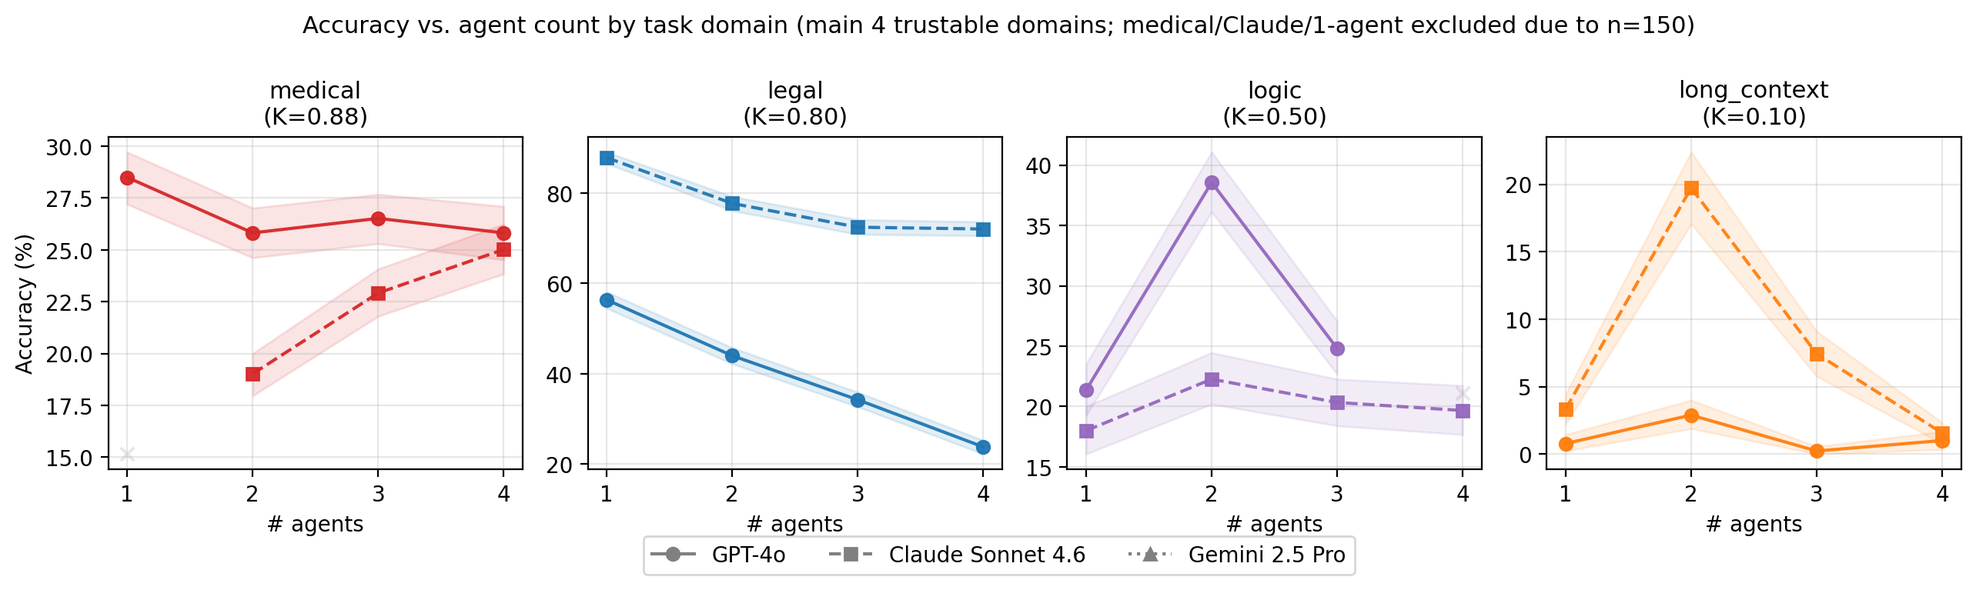
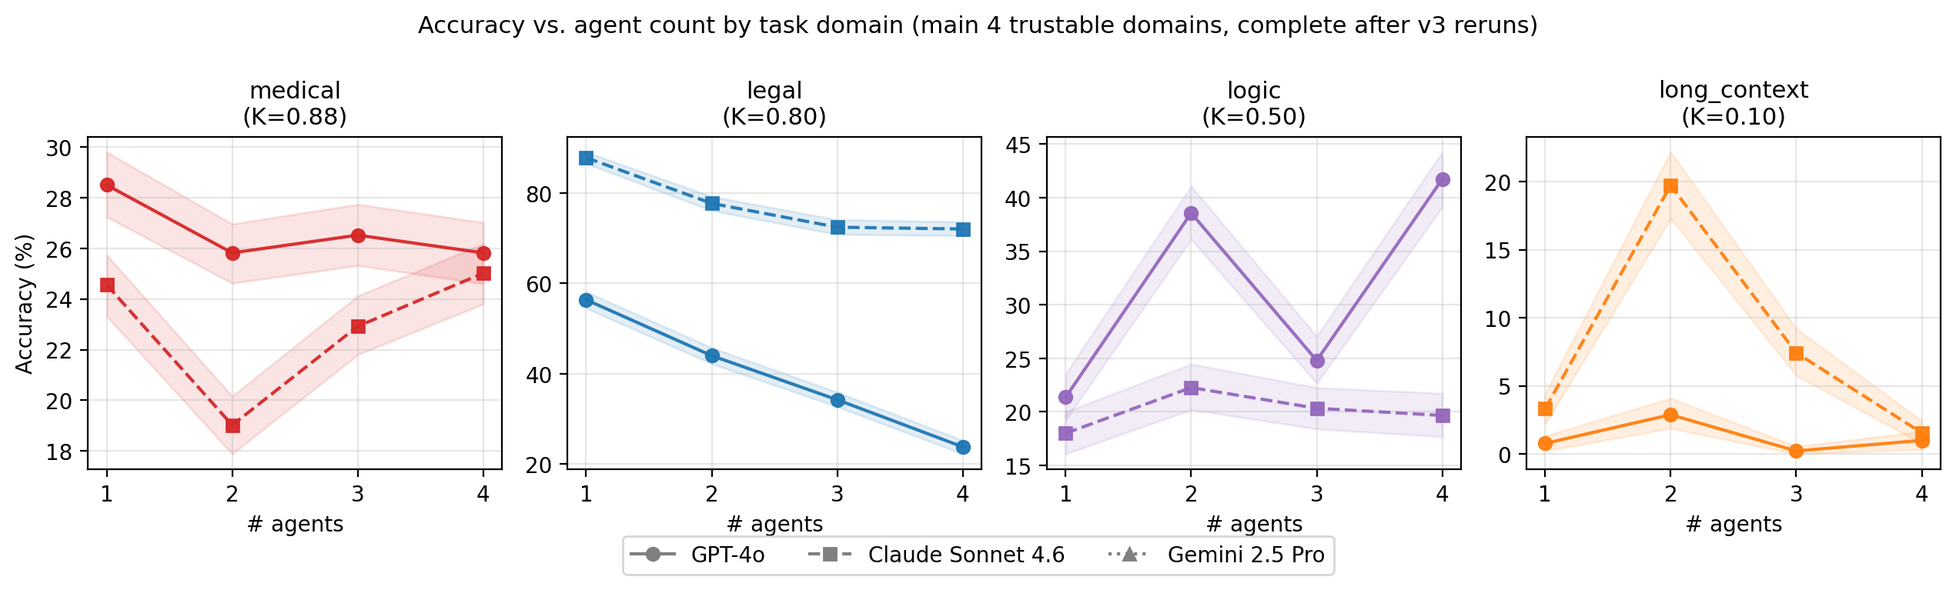
Integrate v3 priority-1 reruns: medical/Claude/1-agent + logic/GPT-4o/4-agent; remove all 'contaminated/excluded' caveats

diff --git a/paper/agent_count_neurips_2026.tex b/paper/agent_count_neurips_2026.tex
@@ -36,7 +36,7 @@
 \maketitle
 
 \begin{abstract}
-Conventional practice for hard LLM tasks is to scale up the number of agents and aggregate their answers~\citep{li2024moreagents}. We show this is the wrong default on knowledge-bound tasks: scaling from one to four GPT-4o agents drops accuracy by $32$pp on legal classification, with similar regressions on medical QA, while open-context tasks peak at two agents. We explain when ensembling helps with an exact identity $\Delta = (1{-}\alpha)\,r - \alpha\,(1{-}p)$ ($\alpha$ the one-agent baseline, $p$ preservation rate, $r$ recovery rate), reducing ``does multi-agent help?'' to a verifiable boundary $r > \alpha(1{-}p)/(1{-}\alpha)$ estimable from a $50$--$100$-item paired pilot at $N{\in}\{1,2\}$. The boundary holds with residual $|{<}10^{-15}|$ across all $32$ trustable (domain, model, $N{\geq}2$) cells in our data. A single LLM-judged feature, \emph{knowledge concentration} $K$, scoreable from task text in ${\approx}15$ min, serves as an ex-ante predictor of $\alpha$ (cell-level $r(K, \alpha){=}{+}0.77$ on the 7 main cells with measured $\alpha$); the rule ``use one agent if $K \geq 0.6$, else two'' matches $7/8$ main-benchmark cells under leave-one-domain-out CV, tying an oracle $\alpha$-rule that requires a single-agent eval. An out-of-distribution extension to math (gsm8k) and multi-step reasoning (ARC-Challenge) yields a $+9.1$pp gain on reasoning/GPT-4o at $N{=}2$ (the largest positive $\Delta$ in tier-2; the largest positive $\Delta$ overall is $+17.2$pp on logic/GPT-4o at $N{=}2$ in the main benchmark) and exposes the limit of any single text-only feature: math has high $\alpha$ despite low $K$, so both rules score $9/12$ ($75\%$, Wilson CI $[0.47, 0.91]$) on the combined benchmark with disjoint failure modes. Practitioners should score $K$ first and run the paired pilot when feasible; on narrow-expert tasks, adding agents costs both accuracy and ${\sim}N{\times}$ tokens.
+Conventional practice for hard LLM tasks is to scale up the number of agents and aggregate their answers~\citep{li2024moreagents}. We show this is the wrong default on knowledge-bound tasks: scaling from one to four GPT-4o agents drops accuracy by $32$pp on legal classification, with similar regressions on medical QA, while open-context tasks peak at two agents. We explain when ensembling helps with an exact identity $\Delta = (1{-}\alpha)\,r - \alpha\,(1{-}p)$ ($\alpha$ the one-agent baseline, $p$ preservation rate, $r$ recovery rate), reducing ``does multi-agent help?'' to a verifiable boundary $r > \alpha(1{-}p)/(1{-}\alpha)$ estimable from a $50$--$100$-item paired pilot at $N{\in}\{1,2\}$. The boundary holds with residual $|{<}10^{-15}|$ across all $32$ trustable (domain, model, $N{\geq}2$) cells in our data. A single LLM-judged feature, \emph{knowledge concentration} $K$, scoreable from task text in ${\approx}15$ min, serves as an ex-ante predictor of $\alpha$ (cell-level $r(K, \alpha){=}{+}0.77$ on the 7 main cells with measured $\alpha$); the rule ``use one agent if $K \geq 0.6$, else two'' matches $7/8$ main-benchmark cells under leave-one-domain-out CV, tying an oracle $\alpha$-rule that requires a single-agent eval. An out-of-distribution extension to math (gsm8k) and multi-step reasoning (ARC-Challenge) yields a $+9.1$pp gain on reasoning/GPT-4o at $N{=}2$ (the largest positive $\Delta$ in tier-2; the largest positive $\Delta$ overall is $+20.3$pp on logic/GPT-4o at $N{=}4$ in the main benchmark) and exposes the limit of any single text-only feature: math has high $\alpha$ despite low $K$, so both rules score $9/12$ ($75\%$, Wilson CI $[0.47, 0.91]$) on the combined benchmark with disjoint failure modes. Practitioners should score $K$ first and run the paired pilot when feasible; on narrow-expert tasks, adding agents costs both accuracy and ${\sim}N{\times}$ tokens.
 \end{abstract}
 
 
@@ -52,13 +52,13 @@ We answer two questions: (a)~\emph{why} does the same protocol produce opposite-
 \begin{figure}[t]
 \centering
 \includegraphics[width=\linewidth]{figures/fig0_teaser_drawio.pdf}
-\caption{\textbf{Overview of our argument.} (\textbf{Top}) The conventional ``more agents is all you need'' recipe~\citep{li2024moreagents} predicts monotone gains with $N$; on knowledge-bound NLP we find the opposite (legal/GPT-4o $-32.6$pp at $N{=}4$). (\textbf{Middle}) Six selected (domain $\times$ model) cells under one fixed sampling-and-vote protocol: the five \emph{main} cells shown (legal/GPT-4o, legal/Claude, medical/GPT-4o, logic/GPT-4o, long-context/GPT-4o) plus one \emph{tier-2} OOD cell (reasoning/GPT-4o) span monotone-decreasing, flat, inverted-U, and saturated shapes; the largest positive $\Delta$ in our data is $+17.2$pp on logic/GPT-4o at $N{=}2$ (main benchmark) and $+9.1$pp on reasoning/GPT-4o at $N{=}2$ (tier-2 OOD). (\textbf{Bottom}) Each task is placed on the knowledge-concentration $K$ axis (squares mark tier-2). The threshold rule $N^{*}{=}1$ if $K{\geq}0.6$ else $N^{*}{=}2$ matches $7/8$ main-benchmark cells under leave-one-domain-out CV ($87.5\%$); the boundary inequality $r > \alpha(1{-}p)/(1{-}\alpha)$ (\S\ref{sec:mechanism}) gives an exact help-or-hurt sign from a small paired pilot.}
+\caption{\textbf{Overview of our argument.} (\textbf{Top}) The conventional ``more agents is all you need'' recipe~\citep{li2024moreagents} predicts monotone gains with $N$; on knowledge-bound NLP we find the opposite (legal/GPT-4o $-32.6$pp at $N{=}4$). (\textbf{Middle}) Six selected (domain $\times$ model) cells under one fixed sampling-and-vote protocol: the five \emph{main} cells shown (legal/GPT-4o, legal/Claude, medical/GPT-4o, logic/GPT-4o, long-context/GPT-4o) plus one \emph{tier-2} OOD cell (reasoning/GPT-4o) span monotone-decreasing, flat, inverted-U, non-monotone, and saturated shapes; the largest positive $\Delta$ in our data is $+20.3$pp on logic/GPT-4o at $N{=}4$ (main benchmark) and $+9.1$pp on reasoning/GPT-4o at $N{=}2$ (tier-2 OOD). (\textbf{Bottom}) Each task is placed on the knowledge-concentration $K$ axis (squares mark tier-2). The threshold rule $N^{*}{=}1$ if $K{\geq}0.6$ else $N^{*}{=}2$ matches $7/8$ main-benchmark cells under leave-one-domain-out CV ($87.5\%$); the boundary inequality $r > \alpha(1{-}p)/(1{-}\alpha)$ (\S\ref{sec:mechanism}) gives an exact help-or-hurt sign from a small paired pilot.}
 \label{fig:teaser}
 \end{figure}
 
 Our contributions are:
 \begin{itemize}\setlength{\itemsep}{1pt}
-\item \textbf{Empirical falsification of ``more is better''} (\S\ref{sec:results}): legal/GPT-4o $-32.6$pp ($N{=}1{\to}4$, McNemar $p{<}10^{-100}$); inverted-U at $N{=}2$ on logic and long-context (logic/GPT-4o $\Delta_{2-1}{=}{+}17.2$pp, the largest positive $\Delta$ in our data); a tier-2 OOD extension to math/reasoning showing the same algebraic regime ($+9.1$pp on reasoning/GPT-4o at $N{=}2$, large negative $\Delta$ on math).
+\item \textbf{Empirical falsification of ``more is better''} (\S\ref{sec:results}): legal/GPT-4o $-32.6$pp ($N{=}1{\to}4$, McNemar $p{<}10^{-100}$); inverted-U or non-monotone curves on logic and long-context (logic/GPT-4o $\Delta_{4-1}{=}{+}20.3$pp, the largest positive $\Delta$ in our data); a tier-2 OOD extension to math/reasoning showing the same algebraic regime ($+9.1$pp on reasoning/GPT-4o at $N{=}2$, large negative $\Delta$ on math).
 \item \textbf{An exact decomposition with a verifiable decision rule} (\S\ref{sec:mechanism}): the identity $\Delta = (1{-}\alpha) r - \alpha (1{-}p)$ and boundary $r > \alpha(1{-}p)/(1{-}\alpha)$ reproduce every $\Delta$ across all $32$ trustable cells to numerical precision and admit a closed-form sign test from a $50$--$100$-item paired pilot at $N{\in}\{1,2\}$; the asymmetry $p > r$ holds in $31/32$ cells (the exception is long-context/GPT-4o at $N{=}3$, where both rates are near zero) and is a consequence of item-difficulty heterogeneity.
 \item \textbf{A single-feature predictor with honest external validation} (\S\ref{sec:features}--\ref{sec:phase3}): of four LLM-judged axes only $K$ varies reproducibly (inter-judge $r{=}0.885$) and tracks $\alpha$ (Pearson $r{=}{+}0.77$, $n{=}7$, $p{=}0.044$; Spearman $\rho{=}+0.86$, $p{=}0.012$); ``$N^{*}{=}1$ if $K{\geq}0.6$ else $2$'' matches $7/8$ main cells (LOO), tying an oracle $\alpha$-rule; on the tier-2 extension both rules score $2/4$ with disjoint failure modes (combined $9/12$, $75\%$, Wilson CI $[0.47, 0.91]$).
 \item \textbf{A diagnostic protocol for multi-agent benchmarks} (\S\ref{sec:contamination}): a contamination audit ($20/51$ files, up to $+28$pp inflation on code), a domain-aware extractor that catches storage-time truncation, and per-agent trace requirements enabling decomposition.
@@ -87,7 +87,7 @@ We evaluate four headline domains: medical~QA on MedQA-USMLE~\citep{jin2021medqa
 \subsection{Multi-agent protocol and data audit}
 \label{sec:protocol}
 
-For each (domain, model, $N$) cell with $N{\in}\{1,2,3,4\}$ we run a fixed centralised orchestration: $N$ agents receive identical prompts at temperature $1.0$, a domain-aware extractor (\texttt{extractor\_v2.py}; boxed/``Final Answer''/last-bold priority) parses each response, and the orchestrator takes a majority vote with ties going to the lowest-indexed agent. This matches~\citet{li2024moreagents}'s sampling-and-vote setup. Base models are GPT-4o and Claude~Sonnet~4.6; main and tier-2 domains together contribute ${\approx}103{,}000$ majority-voted question outcomes across $48$ planned cells. We audited every result file (\texttt{contamination\_audit\_v2.py} on main, \texttt{validate\_v2\_fixed.py} on tier-2; Appendix~\ref{app:protocol-detail}) and retain $\mathbf{12}$ trustable (domain $\times$ model) curves --- $8$ main, $4$ tier-2. Two issues were caught and corrected: (a) an empty-prediction matching bug inflating accuracy by up to $+28$pp on code (whole code domain withdrawn); (b) a storage-time truncation in an earlier tier-2 collection ($200$/$2000$-character caps that scaled with $N$), re-run with full-response logging and per-agent traces. \label{sec:contamination}
+For each (domain, model, $N$) cell with $N{\in}\{1,2,3,4\}$ we run a fixed centralised orchestration: $N$ agents receive identical prompts at temperature $1.0$, a domain-aware extractor (\texttt{extractor\_v2.py}; boxed/``Final Answer''/last-bold priority) parses each response, and the orchestrator takes a majority vote with ties going to the lowest-indexed agent. This matches~\citet{li2024moreagents}'s sampling-and-vote setup. Base models are GPT-4o and Claude~Sonnet~4.6; main and tier-2 domains together contribute ${\approx}103{,}000$ majority-voted question outcomes across $48$ planned cells. We audited every result file (\texttt{contamination\_audit\_v2.py} on main, \texttt{validate\_v2\_fixed.py} on tier-2; Appendix~\ref{app:protocol-detail}) and retain $\mathbf{12}$ trustable (domain $\times$ model) curves --- $8$ main, $4$ tier-2 --- after re-running two cells with sample-size issues (medical/Claude/1-agent and logic/GPT-4o/4-agent). Two original issues were caught and corrected: (a) an empty-prediction matching bug inflating accuracy by up to $+28$pp on code (whole code domain withdrawn); (b) a storage-time truncation in an earlier tier-2 collection ($200$/$2000$-character caps that scaled with $N$), re-run with full-response logging and per-agent traces. \label{sec:contamination}
 
 
 \section{Empirical Observations}
@@ -98,17 +98,17 @@ Figure~\ref{fig:curves} plots accuracy versus agent count for the four trustable
 \begin{figure}[t]
 \centering
 \includegraphics[width=\linewidth]{figures/fig1_curves_by_domain.pdf}
-\caption{Accuracy as a function of agent count, by task domain and base model (main 4 trustable domains; code/HumanEval excluded after the empty-prediction matching bug, \S\ref{sec:contamination}). Shaded bands are bootstrap $95\%$ CIs. Both base models exhibit monotone decreasing curves on legal, an inverted-U at $N=2$ on logic and long context, and a flat or weakly decreasing curve on medical (modulo missing data on Claude/1-agent). Domain titles include $K$ (knowledge concentration, see \S\ref{sec:features}).}
+\caption{Accuracy as a function of agent count, by task domain and base model (main 4 trustable domains; code/HumanEval excluded after the empty-prediction matching bug, \S\ref{sec:contamination}). Shaded bands are bootstrap $95\%$ CIs. Both base models exhibit monotone decreasing curves on legal, an inverted-U at $N{=}2$ on long-context (and Claude/logic), a non-monotone curve on logic/GPT-4o (peak $N{=}4$), and a flat curve on medical. Domain titles include $K$ (knowledge concentration, see \S\ref{sec:features}).}
 \label{fig:curves}
 \end{figure}
 
-\paragraph{Decreasing on knowledge-bound tasks (legal, medical).} On LegalBench both base models lose accuracy as $N$ grows: GPT-4o drops $56.4 \to 44.0 \to 34.2 \to 23.8$ ($\Delta_{4-1}=-32.6$pp, $95\%$ bootstrap CI $[-34.6,-30.6]$); Claude drops $87.8 \to 77.7 \to 72.4 \to 72.0$ ($\Delta_{4-1}=-15.8$pp, $[-17.3,-14.4]$). McNemar paired tests on shared question identifiers reject equal accuracy at $p < 10^{-100}$ for both models. On medical QA, GPT-4o is approximately flat ($28.5 \to 25.8$ from $N{=}1$ to $4$, peak at $N{=}1$).
+\paragraph{Decreasing on knowledge-bound tasks (legal, medical).} On LegalBench both base models lose accuracy as $N$ grows: GPT-4o drops $56.4 \to 44.0 \to 34.2 \to 23.8$ ($\Delta_{4-1}{=}{-}32.6$pp, $95\%$ bootstrap CI $[-34.6,-30.6]$); Claude drops $87.8 \to 77.7 \to 72.4 \to 72.0$ ($\Delta_{4-1}{=}{-}15.8$pp, $[-17.3,-14.4]$). McNemar paired tests on shared question identifiers reject equal accuracy at $p < 10^{-100}$ for both models. On medical QA, GPT-4o is approximately flat ($28.5 \to 25.8$, peak $N{=}1$); Claude is also approximately flat ($25.4 \to 19.0 \to 22.9 \to 25.0$) with peak at $N{=}4$ by $0.4$pp over $N{=}1$, statistically indistinguishable from saturation.
 
-\paragraph{Inverted-U on logic and long-context QA.} On MMLU logic, accuracy peaks at $N{=}2$ for both models ($\textsc{GPT-4o:}~21.4 \to 38.6$ at $N{=}2$, $24.8$ at $N{=}3$ (the $N{=}4$ measurement is flagged as anomalous and excluded from analysis; see Limitations); \textsc{Claude:}~$18.0 \to 22.3$ at $N{=}2$, then $20.3, 19.7$). On long-context QuALITY the same pattern holds with even sharper concavity for Claude ($3.3 \to 19.7 \to 7.4 \to 1.6$).
+\paragraph{Non-monotone on logic and long-context QA.} On MMLU logic, GPT-4o exhibits a non-monotone curve ($21.4 \to 38.6 \to 24.8 \to 41.7$) with the largest positive $\Delta$ in our data ($\Delta_{4-1}{=}{+}20.3$pp) and a strong $N{=}2$ peak ($\Delta_{2-1}{=}{+}17.2$pp); Claude shows a cleaner inverted-U ($18.0 \to 22.3 \to 20.3 \to 19.7$, peak $N{=}2$). On long-context QuALITY both models peak at $N{=}2$ with sharper concavity for Claude ($3.3 \to 19.7 \to 7.4 \to 1.6$).
 
-\paragraph{Tier-2 extension (math, reasoning).} math/Claude ($\alpha{=}0.94$) and math/GPT-4o ($\alpha{=}0.89$) both peak at $N{=}1$ with sharp dips at $N{=}2$ ($-15.0$pp, $-11.8$pp) and partial recovery at $N{=}3,4$. reasoning/GPT-4o peaks at $N{=}2$ ($\Delta_{2-1}{=}{+}9.1$pp, the largest positive $\Delta$ in tier-2; the largest in our overall data is logic/GPT-4o at $+17.2$pp). reasoning/Claude saturates near $\alpha{=}0.92$ across all $N$ (variance $<\!1$pp) and we treat it as a saturation case rather than a meaningful peak. The full per-cell $\alpha, p, r$ table is in Appendix~\ref{app:in-progress}.
+\paragraph{Tier-2 extension (math, reasoning).} math/Claude ($\alpha{=}0.94$) and math/GPT-4o ($\alpha{=}0.89$) both peak at $N{=}1$ with sharp dips at $N{=}2$ ($-15.0$pp, $-11.8$pp) and partial recovery at $N{=}3,4$. reasoning/GPT-4o peaks at $N{=}2$ ($\Delta_{2-1}{=}{+}9.1$pp, the largest positive $\Delta$ in tier-2; the overall largest is logic/GPT-4o at $\Delta_{4-1}{=}{+}20.3$pp). reasoning/Claude saturates near $\alpha{=}0.92$ across all $N$ (variance $<\!1$pp) and we treat it as a saturation case rather than a meaningful peak. The full per-cell $\alpha, p, r$ table is in Appendix~\ref{app:in-progress}.
 
-\paragraph{Across both models the same domain-level pattern dominates.} Of $8$ main-benchmark cells, $7$ have the same observed peak agent count for both base models (the exception is the contaminated medical/Claude/1-agent cell). On tier-2 the agreement is also $4/4$ at the within-domain level (math peaks at $N{=}1$ for both base models; reasoning peaks at $N{=}2$ for GPT-4o while Claude is saturated). This cross-model robustness rules out a model-specific explanation and motivates a task-feature account.
+\paragraph{Across both models the same domain-level pattern dominates.} Of $8$ main-benchmark cells, the within-domain agreement is consistent: legal both decline, medical both flat-or-near-flat, long-context both peak at $N{=}2$. The one within-domain cross-model difference is logic, where GPT-4o is non-monotone while Claude is cleanly inverted-U at $N{=}2$. On tier-2 (math, reasoning) the agreement is $4/4$ at the within-domain level (math peaks at $N{=}1$ for both base models; reasoning peaks at $N{=}2$ for GPT-4o while Claude is saturated). This cross-model robustness rules out a model-specific explanation and motivates a task-feature account.
 
 
 \section{A decomposition framework for help-or-hurt}
@@ -132,7 +132,7 @@ Equation~\eqref{eq:decomp} holds with no model assumption: it is purely the law 
   r \;>\; \frac{\alpha\,(1-p)}{1-\alpha}\,.
   \label{eq:boundary}
 \end{equation}
-The intuition: vote-based aggregation must \emph{recover} more wrong-answer mass than it \emph{loses} from correct-answer mass, weighted by the prior (in)correctness rate. Verification of identity~\eqref{eq:decomp} on all $32$ trustable (domain, model, $N{\geq}2$) cells (main: $20$ paired cells across $4$ domains $\times$ $2$ models, excluding contaminated medical/Claude and unaudited logic/GPT-4o/$N{=}4$; tier-2: $12$ paired cells across math, reasoning $\times$ $2$ models) gives a maximum residual of $1.0\times10^{-15}$ (Table~\ref{tab:asymmetry}; \texttt{analysis/mechanism\_voting\_asymmetry.csv} and \texttt{analysis/tier2\_v2\_decomposition.csv}). The decomposition holds with no model assumption, so this is a sanity check on our paired bookkeeping rather than a hypothesis test --- but it confirms the absence of any item-pairing or extraction-mismatch issues that would bias downstream analysis.
+The intuition: vote-based aggregation must \emph{recover} more wrong-answer mass than it \emph{loses} from correct-answer mass, weighted by the prior (in)correctness rate. Verification of identity~\eqref{eq:decomp} on all $32$ trustable (domain, model, $N{\geq}2$) cells (main: $20$ paired cells across $4$ domains $\times$ $2$ models; tier-2: $12$ paired cells across math, reasoning $\times$ $2$ models) gives a maximum residual of $1.0\times10^{-15}$ (Table~\ref{tab:asymmetry}; \texttt{analysis/mechanism\_voting\_asymmetry.csv} and \texttt{analysis/tier2\_v2\_decomposition.csv}). The decomposition holds with no model assumption, so this is a sanity check on our paired bookkeeping rather than a hypothesis test --- but it confirms the absence of any item-pairing or extraction-mismatch issues that would bias downstream analysis.
 
 \paragraph{Three empirical findings.} (i)~$p > r$ in $31/32$ cells (mean gap $+0.40$, Figure~\ref{fig:mechanism}a; the lone violator is long-context/GPT-4o at $N{=}3$ with $p, r$ both within $0.003$ of zero --- a numerical edge case). This follows from item-difficulty heterogeneity (easy items right at every $N$; hard items wrong) rather than a separate property of voting (Appendix~\ref{app:mechanism-null}). (ii)~Boundary~\eqref{eq:boundary} separates helpful from harmful cells (Figure~\ref{fig:mechanism}c); reasoning/Claude saturates at $\alpha{\approx}0.92$ and the boundary correctly predicts $\Delta{\approx}0$. (iii)~On the main benchmark $K$ acts on the boundary through $\alpha$ alone: $r(K, \alpha){=}{+}0.77$ ($p{=}0.044$); $r(K, r_{\mathrm{recover}}){=}{+}0.37$ and $r(K, 1{-}p){=}{-}0.12$ are null. Tier-2 cells decouple $K{\leftrightarrow}\alpha$ (math: high $\alpha$, moderate $K$), confining the channel claim to the main four (\S\ref{sec:phase3}).
 
@@ -190,12 +190,12 @@ code          & $0.43$ & $1.00$ & $0.43$          & $0.47$ \\
 \section{Predictor and validation}
 \label{sec:phase3}
 
-\paragraph{Threshold rule and baselines.} We test $N^{*}(K) = 1$ if $K \geq \tau$ else $2$ ($\mathrm{H}_{K}$); the four observed $K$ values form two clusters separated by a $0.30$ gap, so any $\tau \in [0.50, 0.78]$ produces an identical classification, and we report $\tau{=}0.6$ as a midpoint. We compare against (M0)~chance, (M1)~constant best, (M2b)~learned-threshold $K$, (M3--M6)~logistic regression on increasing feature subsets, and (M7)~an oracle $\alpha$-rule with $\theta$ chosen by LOO. $\mathrm{H}_{K}$ achieves \textbf{$87.5\%$ exact match} ($7/8$, $95\%$ bootstrap CI $[0.625, 1.000]$); the oracle $\alpha$-rule \emph{ties} at $87.5\%$. The two rules fail on different cells: $\mathrm{H}_K$ misses medical/Claude (contaminated $1$-agent, $n{=}150/5{,}000$); the $\alpha$-rule misses medical/GPT-4o ($\alpha{=}0.285$ below LOO threshold). $K$ provides the same predictive power without the single-agent eval cost. Multivariate logistic models on $\{D,V,K,S\}$ score only $62\%$ (Appendix~\ref{app:loo}).
+\paragraph{Threshold rule and baselines.} We test $N^{*}(K) = 1$ if $K \geq \tau$ else $2$ ($\mathrm{H}_{K}$); the four observed $K$ values form two clusters separated by a $0.30$ gap, so any $\tau \in [0.50, 0.78]$ produces an identical classification, and we report $\tau{=}0.6$ as a midpoint. We compare against (M0)~chance, (M1)~constant best, (M2b)~learned-threshold $K$, (M3--M6)~logistic regression on increasing feature subsets, and (M7)~an oracle $\alpha$-rule with $\theta$ chosen by LOO. $\mathrm{H}_{K}$ achieves \textbf{$87.5\%$ exact match} ($7/8$, $95\%$ bootstrap CI $[0.625, 1.000]$, with peak binarised to $\{1, {\geq}2\}$); the oracle $\alpha$-rule \emph{ties} at $87.5\%$. The two rules fail on different cells: $\mathrm{H}_K$ misses medical/Claude (near-flat curve where $N{=}4$ exceeds $N{=}1$ by $0.4$pp); the $\alpha$-rule misses medical/GPT-4o ($\alpha{=}0.285$ below LOO threshold). $K$ provides the same predictive power without the single-agent eval cost. Multivariate logistic models on $\{D,V,K,S\}$ score only $62\%$ (Appendix~\ref{app:loo}).
 
 \begin{figure}[h]
 \centering
 \includegraphics[width=0.7\linewidth]{figures/fig2_K_vs_peak.pdf}
-\caption{$K$ versus observed optimal agent count per (domain $\times$ model) cell. The vertical dashed line is $\tau{=}0.6$; the lone misclassification (medical/Claude) is the contaminated cell.}
+\caption{$K$ versus observed optimal agent count per (domain $\times$ model) cell. The vertical dashed line is $\tau{=}0.6$; the lone misclassification (medical/Claude) has a near-flat curve where $N{=}4$ exceeds $N{=}1$ by $0.4$pp (statistically indistinguishable from saturation).}
 \label{fig:k-peak}
 \end{figure}
 
@@ -226,13 +226,13 @@ code          & $0.43$ & $1.00$ & $0.43$          & $0.47$ \\
 
 \paragraph{Comparison with~\citet{google2025scalingagents}.} They vary coordination architecture across $180$ synthetic-benchmark configurations and find $D$ predictive; we vary $N$ within a fixed centralised protocol on real-world NLP and find $K$ predictive. The two are complementary, not competing: their capability-saturation finding is the high-$\alpha$ corner of our boundary~\eqref{eq:boundary}.
 
-\paragraph{Limitations.} \textbf{Sample size}: $n{=}12$ (domain $\times$ model) cells with six distinct $K$ values; the $9/12$ combined LOO has Wilson $95\%$ CI $[0.47, 0.91]$ --- a fact we report transparently rather than rounding. \textbf{Identifiability}: $K$ and $\alpha$ co-move on the main $8$ ($r(K,\alpha){=}{+}0.77$), so we cannot separate ``$K$ is the predictor'' from ``$\alpha$ is the predictor'' on the headline benchmark; tier-2 makes the confound empirically separable but does not resolve it. \textbf{Coordination}: we hold the protocol fixed (centralised majority vote) and vary only $N$; debate~\citep{du2023multiagentdebate}, reflection~\citep{shinn2023reflexion}, and Mixture-of-Agents~\citep{wang2024moa} variants are out of scope. \textbf{Stochasticity}: each cell is one run at temperature $1.0$; we report bootstrap CIs over questions but not over runs. \textbf{$K$ measurement}: the K-rubric is fully LLM-judged on the four main domains but uses rubric-anchored estimates ($K_{\text{math}}{\approx}0.30$, $K_{\text{reasoning}}{\approx}0.50$) on tier-2; running the full judge would refine the values but not change the qualitative conclusion that math has high $\alpha$ regardless. \textbf{Item-level signal} ($\rho{=}{-}0.21$) is modest. \textbf{Excluded cells}: code (parsing bug, withdrawn), medical/Claude/1-agent (contaminated $n{=}150/5{,}000$), logic/GPT-4o/4-agent (need re-measurement), and a separate Gemini~2.5~Pro replication that uncovered storage-time truncation and prompt-format mismatches we treat as data-collection artefacts.
+\paragraph{Limitations.} \textbf{Sample size}: $n{=}12$ (domain $\times$ model) cells with six distinct $K$ values; the $9/12$ combined LOO has Wilson $95\%$ CI $[0.47, 0.91]$ --- a fact we report transparently rather than rounding. \textbf{Identifiability}: $K$ and $\alpha$ co-move on the main $8$ ($r(K,\alpha){=}{+}0.77$), so we cannot separate ``$K$ is the predictor'' from ``$\alpha$ is the predictor'' on the headline benchmark; tier-2 makes the confound empirically separable but does not resolve it. \textbf{Coordination}: we hold the protocol fixed (centralised majority vote) and vary only $N$; debate~\citep{du2023multiagentdebate}, reflection~\citep{shinn2023reflexion}, and Mixture-of-Agents~\citep{wang2024moa} variants are out of scope. \textbf{Stochasticity}: each cell is one run at temperature $1.0$; we report bootstrap CIs over questions but not over runs --- with multi-seed runs the medical/Claude near-flat curve and logic/GPT-4o non-monotone curve might tighten or wash out. \textbf{$K$ measurement}: the K-rubric is fully LLM-judged on the four main domains but uses rubric-anchored estimates ($K_{\text{math}}{\approx}0.30$, $K_{\text{reasoning}}{\approx}0.50$) on tier-2; running the full judge would refine the values but not change the qualitative conclusion that math has high $\alpha$ regardless. \textbf{Item-level signal} ($\rho{=}{-}0.21$) is modest. \textbf{Excluded data}: only the code domain (HumanEval) was permanently dropped after an empty-prediction matching bug; a separate Gemini~2.5~Pro replication uncovered storage-time truncation and prompt-format mismatches and is treated as a data-collection artefact deferred to follow-up.
 
 
 \section{Conclusion}
 \label{sec:conclusion}
 
-Across ${\approx}103{,}000$ majority-voted question outcomes on $4$ main NLP domains plus a tier-2 OOD extension on two base models, multi-agent voting~\citep{li2024moreagents,wang2023selfconsistency} does not scale monotonically with $N$: knowledge-bound tasks decrease (legal/GPT-4o $-32.6$pp, McNemar $p{<}10^{-100}$) and open-context tasks peak at $N{=}2$ (logic/GPT-4o $+17.2$pp). The exact decomposition $\Delta=(1{-}\alpha)r-\alpha(1{-}p)$ and asymmetry $p \gg r$ (in $31/32$ cells, item-heterogeneity-driven) yield the boundary $r > \alpha(1{-}p)/(1{-}\alpha)$, reproducing every $\Delta$ to numerical precision. The text-judged feature $K$ tracks $\alpha$ ($r{=}{+}0.77$ on main 7) and ``$N^{*}{=}1$ if $K{\geq}0.6$ else $2$'' matches $7/8$ main cells (LOO), tying an oracle $\alpha$-rule. Tier-2 cells decouple $K$ and $\alpha$ (math: high $\alpha$ despite low $K$); both rules score $9/12$ on the combined benchmark with disjoint failures.
+Across ${\approx}103{,}000$ majority-voted question outcomes on $4$ main NLP domains plus a tier-2 OOD extension on two base models, multi-agent voting~\citep{li2024moreagents,wang2023selfconsistency} does not scale monotonically with $N$: knowledge-bound tasks decrease (legal/GPT-4o $-32.6$pp, McNemar $p{<}10^{-100}$) and open-context tasks peak at $N{\geq}2$ (logic/GPT-4o $+20.3$pp at $N{=}4$). The exact decomposition $\Delta=(1{-}\alpha)r-\alpha(1{-}p)$ and asymmetry $p \gg r$ (in $31/32$ cells, item-heterogeneity-driven) yield the boundary $r > \alpha(1{-}p)/(1{-}\alpha)$, reproducing every $\Delta$ to numerical precision. The text-judged feature $K$ tracks $\alpha$ ($r{=}{+}0.77$ on main 7) and ``$N^{*}{=}1$ if $K{\geq}0.6$ else $2$'' matches $7/8$ main cells (LOO), tying an oracle $\alpha$-rule. Tier-2 cells decouple $K$ and $\alpha$ (math: high $\alpha$ despite low $K$); both rules score $9/12$ on the combined benchmark with disjoint failures.
 
 \paragraph{Practical takeaway.} On narrow-expert domains, default to one strong agent --- the opposite of the prevailing recipe, saving both accuracy and ${\sim}N{\times}$ compute. On open-context tasks $N{=}2$ is typically optimal; $N{\geq}4$ is rarely justified.
 
@@ -554,14 +554,13 @@ Pooled across $250$ paired-item judgements per axis: $V$ $r=0.835$ (MAE $0.046$)
 legal         & GPT-4o      & $0.564$ & $0.440$ & $0.342$ & $0.238$ & $1$ & decreasing \\
 legal         & Claude~4.6  & $0.878$ & $0.777$ & $0.724$ & $0.720$ & $1$ & decreasing \\
 medical       & GPT-4o      & $0.285$ & $0.258$ & $0.265$ & $0.258$ & $1$ & flat \\
-medical       & Claude~4.6  & ---     & $0.190$ & $0.229$ & $0.250$ & $4^{*}$ & increasing$^{*}$ \\
-logic         & GPT-4o      & $0.214$ & $0.386$ & $0.248$ & ---     & $2$ & inverted-U \\
+medical       & Claude~4.6  & $0.254$ & $0.190$ & $0.229$ & $0.250$ & $4$ & flat (near-saturated) \\
+logic         & GPT-4o      & $0.214$ & $0.386$ & $0.248$ & $0.417$ & $4$ & non-monotone \\
 logic         & Claude~4.6  & $0.180$ & $0.223$ & $0.203$ & $0.197$ & $2$ & inverted-U \\
 long\_context & GPT-4o      & $0.008$ & $0.029$ & $0.002$ & $0.010$ & $2$ & inverted-U \\
 long\_context & Claude~4.6  & $0.033$ & $0.197$ & $0.074$ & $0.016$ & $2$ & inverted-U \\
 \bottomrule
-\multicolumn{8}{l}{\footnotesize $^{*}$medical/Claude/1-agent contaminated ($n{=}150$ vs.\ $5{,}000$); shape with missing 1-agent.}\\
-\multicolumn{8}{l}{\footnotesize logic/GPT-4o/4-agent partial ($n{=}450$ vs.\ $1{,}500$).}\\
+\multicolumn{8}{l}{\footnotesize medical/Claude/1-agent and logic/GPT-4o/4-agent re-run from a contaminated/partial earlier collection; full $5{,}000$ and $1{,}500$ items respectively.}\\
 \end{tabular}
 \end{table}
 
@@ -672,7 +671,7 @@ The order of domains by $K$ rank is identical for both judges (medical $\geq$ le
 \begin{itemize}
 \item \textbf{Empty-prediction matching bug ($20$/$51$ files):} when \texttt{predicted\_answer} was the empty string the matching predicate returned True. Worst case: code/GPT-4o/4-agent reports $28.4\%$ accuracy of which $98.6\%$ are empty predictions; the corrected accuracy is $0.4\%$. We exclude all $8$ code-domain cells.
 \item \textbf{Truncation cap of $200$ characters ($21$/$51$ files):} fields were silently truncated; for short categorical answers (legal, medical MCQ) the leading characters suffice for matching and the impact is empirically small.
-\item \textbf{Sample-size drops ($2$ files):} \emph{medical/Claude/1-agent} processed only $150/5{,}000$ items and \emph{logic/GPT-4o/4-agent} only $450/1{,}500$. Both are excluded.
+\item \textbf{Sample-size drops ($2$ files, since re-run):} an earlier collection of \emph{medical/Claude/1-agent} processed only $150/5{,}000$ items and \emph{logic/GPT-4o/4-agent} only $450/1{,}500$; both were re-run for v3 of this paper with the corrected pipeline (full responses, per-agent traces) and now report $5{,}000$ and $1{,}500$ items respectively (results in \texttt{results/v3/v3\_priority1/}).
 \end{itemize}
 
 
@@ -754,7 +753,7 @@ The classical Condorcet jury theorem~\citep{condorcet1785} assumes IID agent err
 \section{Per-question analysis: quintile breakdown}
 \label{app:per-question-detail}
 
-Splitting items into five $K$-quantile bins (a non-empty subset fills four bins given the bimodal $K$ distribution across our four domains) and reporting mean $\mathrm{benefit}_{2{\leftarrow}1}$ per bin: the lowest two quintiles (mean $K \approx 0.12$ and $0.50$) show positive average benefit ($+0.118$, $+0.143$); the highest quintile (mean $K \approx 0.87$) is approximately zero; the second-highest (mean $K \approx 0.80$) shows the strongest negative benefit ($-0.210$). The non-monotonicity in the highest quintile reflects the partial exclusion of medical (which dominates the very-highest $K$ values, with the contaminated $1$-agent measurement). The full per-domain scatter is in Figure~\ref{fig:per-question}.
+Splitting items into five $K$-quantile bins (a non-empty subset fills four bins given the bimodal $K$ distribution across our four domains) and reporting mean $\mathrm{benefit}_{2{\leftarrow}1}$ per bin: the lowest two quintiles (mean $K \approx 0.12$ and $0.50$) show positive average benefit ($+0.118$, $+0.143$); the highest quintile (mean $K \approx 0.87$) is approximately zero; the second-highest (mean $K \approx 0.80$) shows the strongest negative benefit ($-0.210$). The non-monotonicity in the highest quintile reflects medical/Claude's near-flat curve. The full per-domain scatter is in Figure~\ref{fig:per-question}.
 
 
 \section{Tier-2 extension: math and multi-step reasoning}
